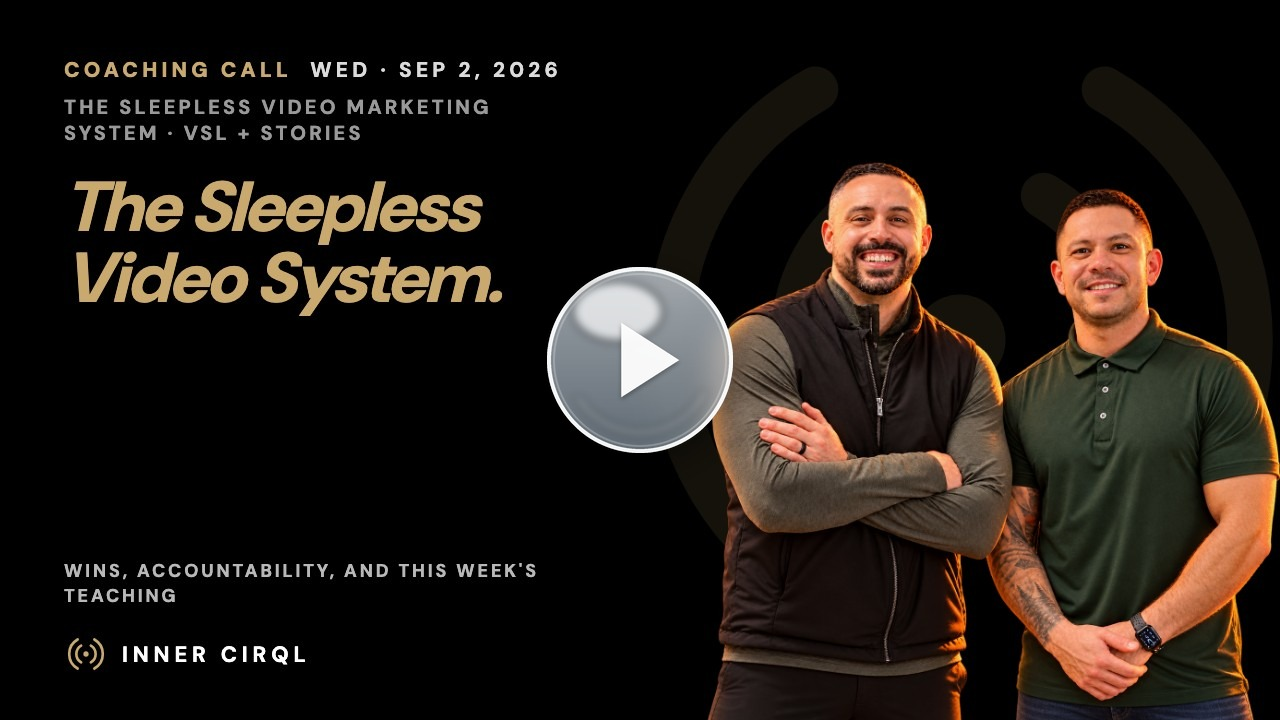
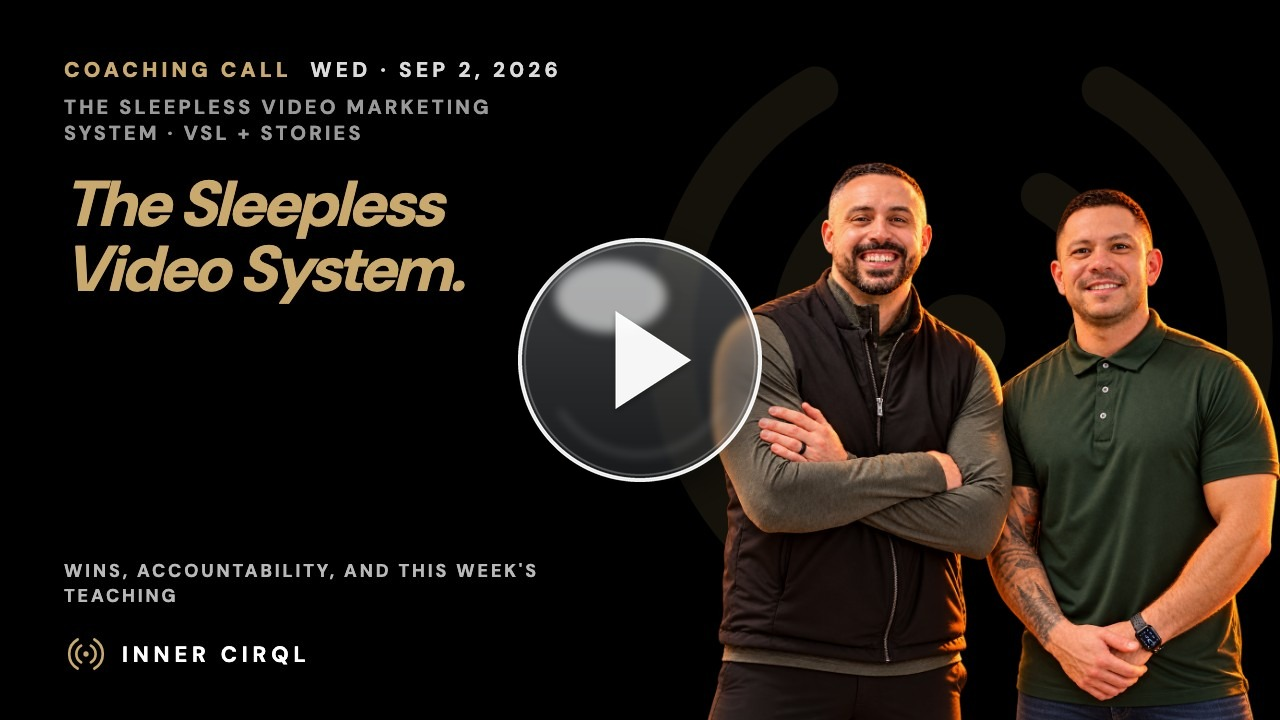
Training: retitle Sep 2 coaching call (The Sleepless Video Marketing System · Appointments While You Sleep.) + thumbnail

Changed region(s): [[0.0625, 0.2444, 0.5938, 0.6722]]

diff --git a/training/index.html b/training/index.html
@@ -94,6 +94,26 @@ window.LIBRARY = {
   ],
   "items": [
     {
+      "id": "v-2026-09-02",
+      "date": "2026-09-02",
+      "dateLabel": "September 2, 2026",
+      "series": "sleepless",
+      "week": 1,
+      "name": "Appointments While You Sleep.",
+      "title": "The Sleepless Video Marketing System · Appointments While You Sleep.",
+      "headline": [
+        "The Sleepless",
+        "Video System."
+      ],
+      "sub": "The Sleepless Video Marketing System · VSL + Stories",
+      "desc": "Two systems, ninety days: one VSL that sells you around the clock, and a ten-second Story from every showing. Appointments while you sleep. Wins, accountability, and the teaching segment, edited replay.",
+      "href": "https://coach.theinnercirql.com/2026-09-02/",
+      "pdf": null,
+      "slides": null,
+      "embed": "https://www.youtube.com/embed/uDBoXa4t-Ic?rel=0&modestbranding=1",
+      "thumb": "/assets/thumbs/sep-2-call.jpg?v=29920149"
+    },
+    {
       "id": "v-2026-08-26",
       "date": "2026-08-26",
       "dateLabel": "August 26, 2026",
@@ -532,26 +552,6 @@ window.LIBRARY = {
       "slides": null,
       "embed": "https://www.youtube.com/embed/C9o7frIeVIU?rel=0&modestbranding=1",
       "thumb": "/assets/thumbs/sep-9-call.jpg?v=29920128"
-    },
-    {
-      "id": "v-2026-09-02",
-      "date": "2026-09-02",
-      "dateLabel": "September 2, 2026",
-      "series": "sleepless",
-      "week": 1,
-      "name": "Appointments While You Sleep.",
-      "title": "The Sleepless Video Marketing System · Appointments While You Sleep.",
-      "headline": [
-        "The Sleepless",
-        "Video System."
-      ],
-      "sub": "The Sleepless Video Marketing System · VSL + Stories",
-      "desc": "Two systems, ninety days: one VSL that sells you around the clock, and a ten-second Story from every showing. Appointments while you sleep. Wins, accountability, and the teaching segment, edited replay.",
-      "href": "https://coach.theinnercirql.com/2026-09-02/",
-      "pdf": null,
-      "slides": null,
-      "embed": "https://www.youtube.com/embed/uDBoXa4t-Ic?rel=0&modestbranding=1",
-      "thumb": "/assets/thumbs/sep-2-call.jpg?v=29920127"
     },
     {
       "id": "t-become-a-listing-magnet",
